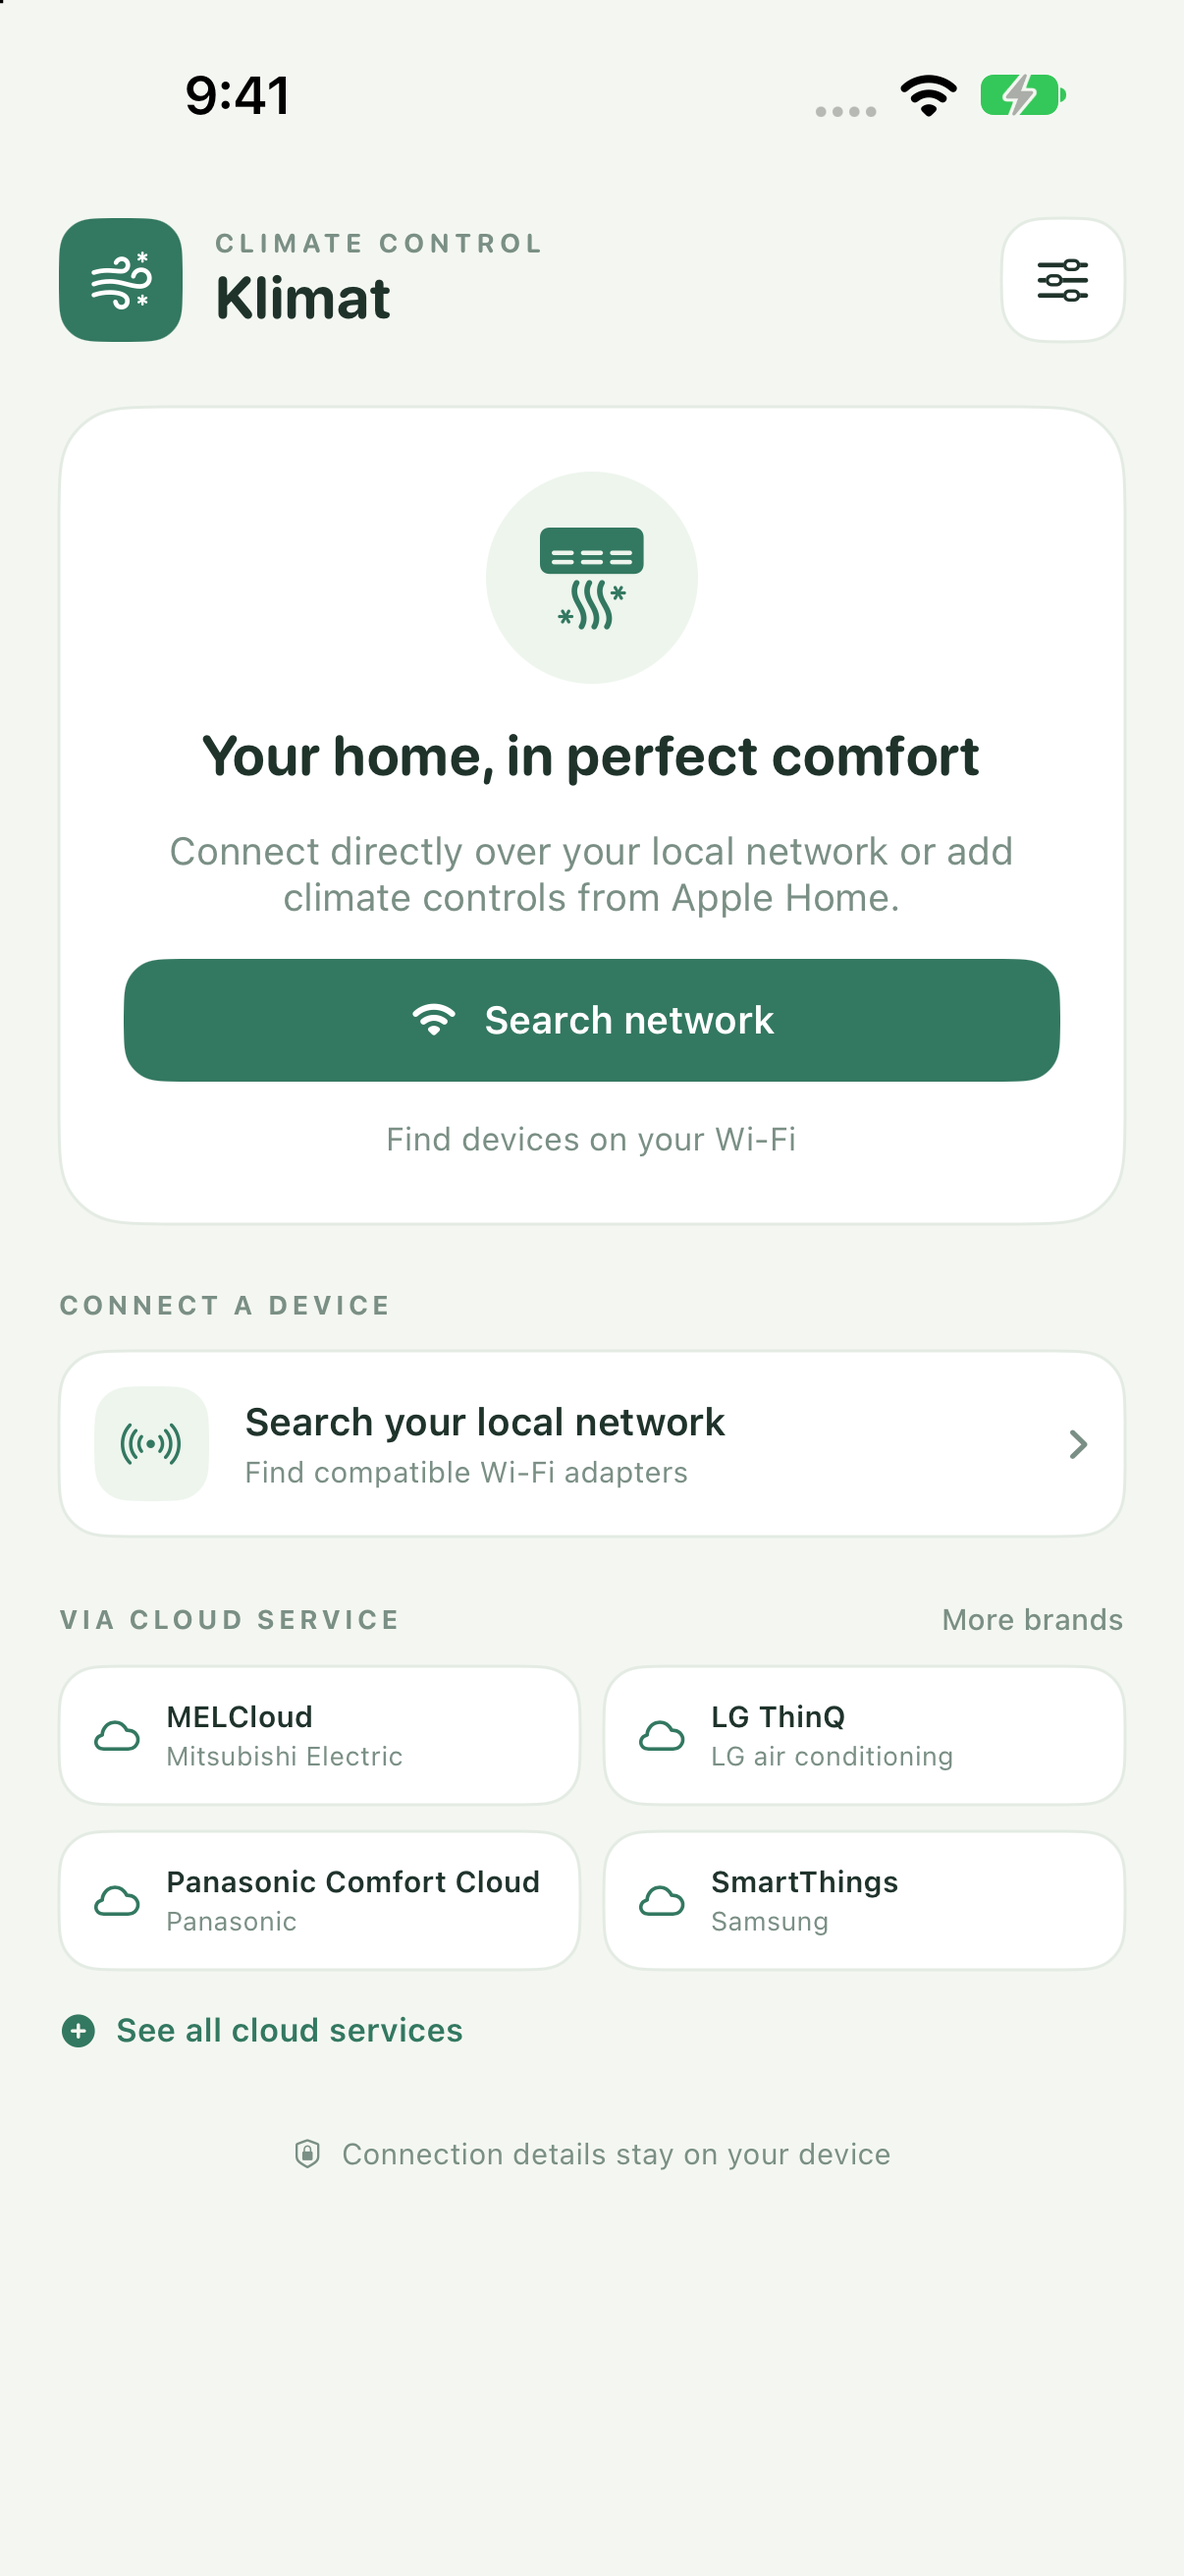
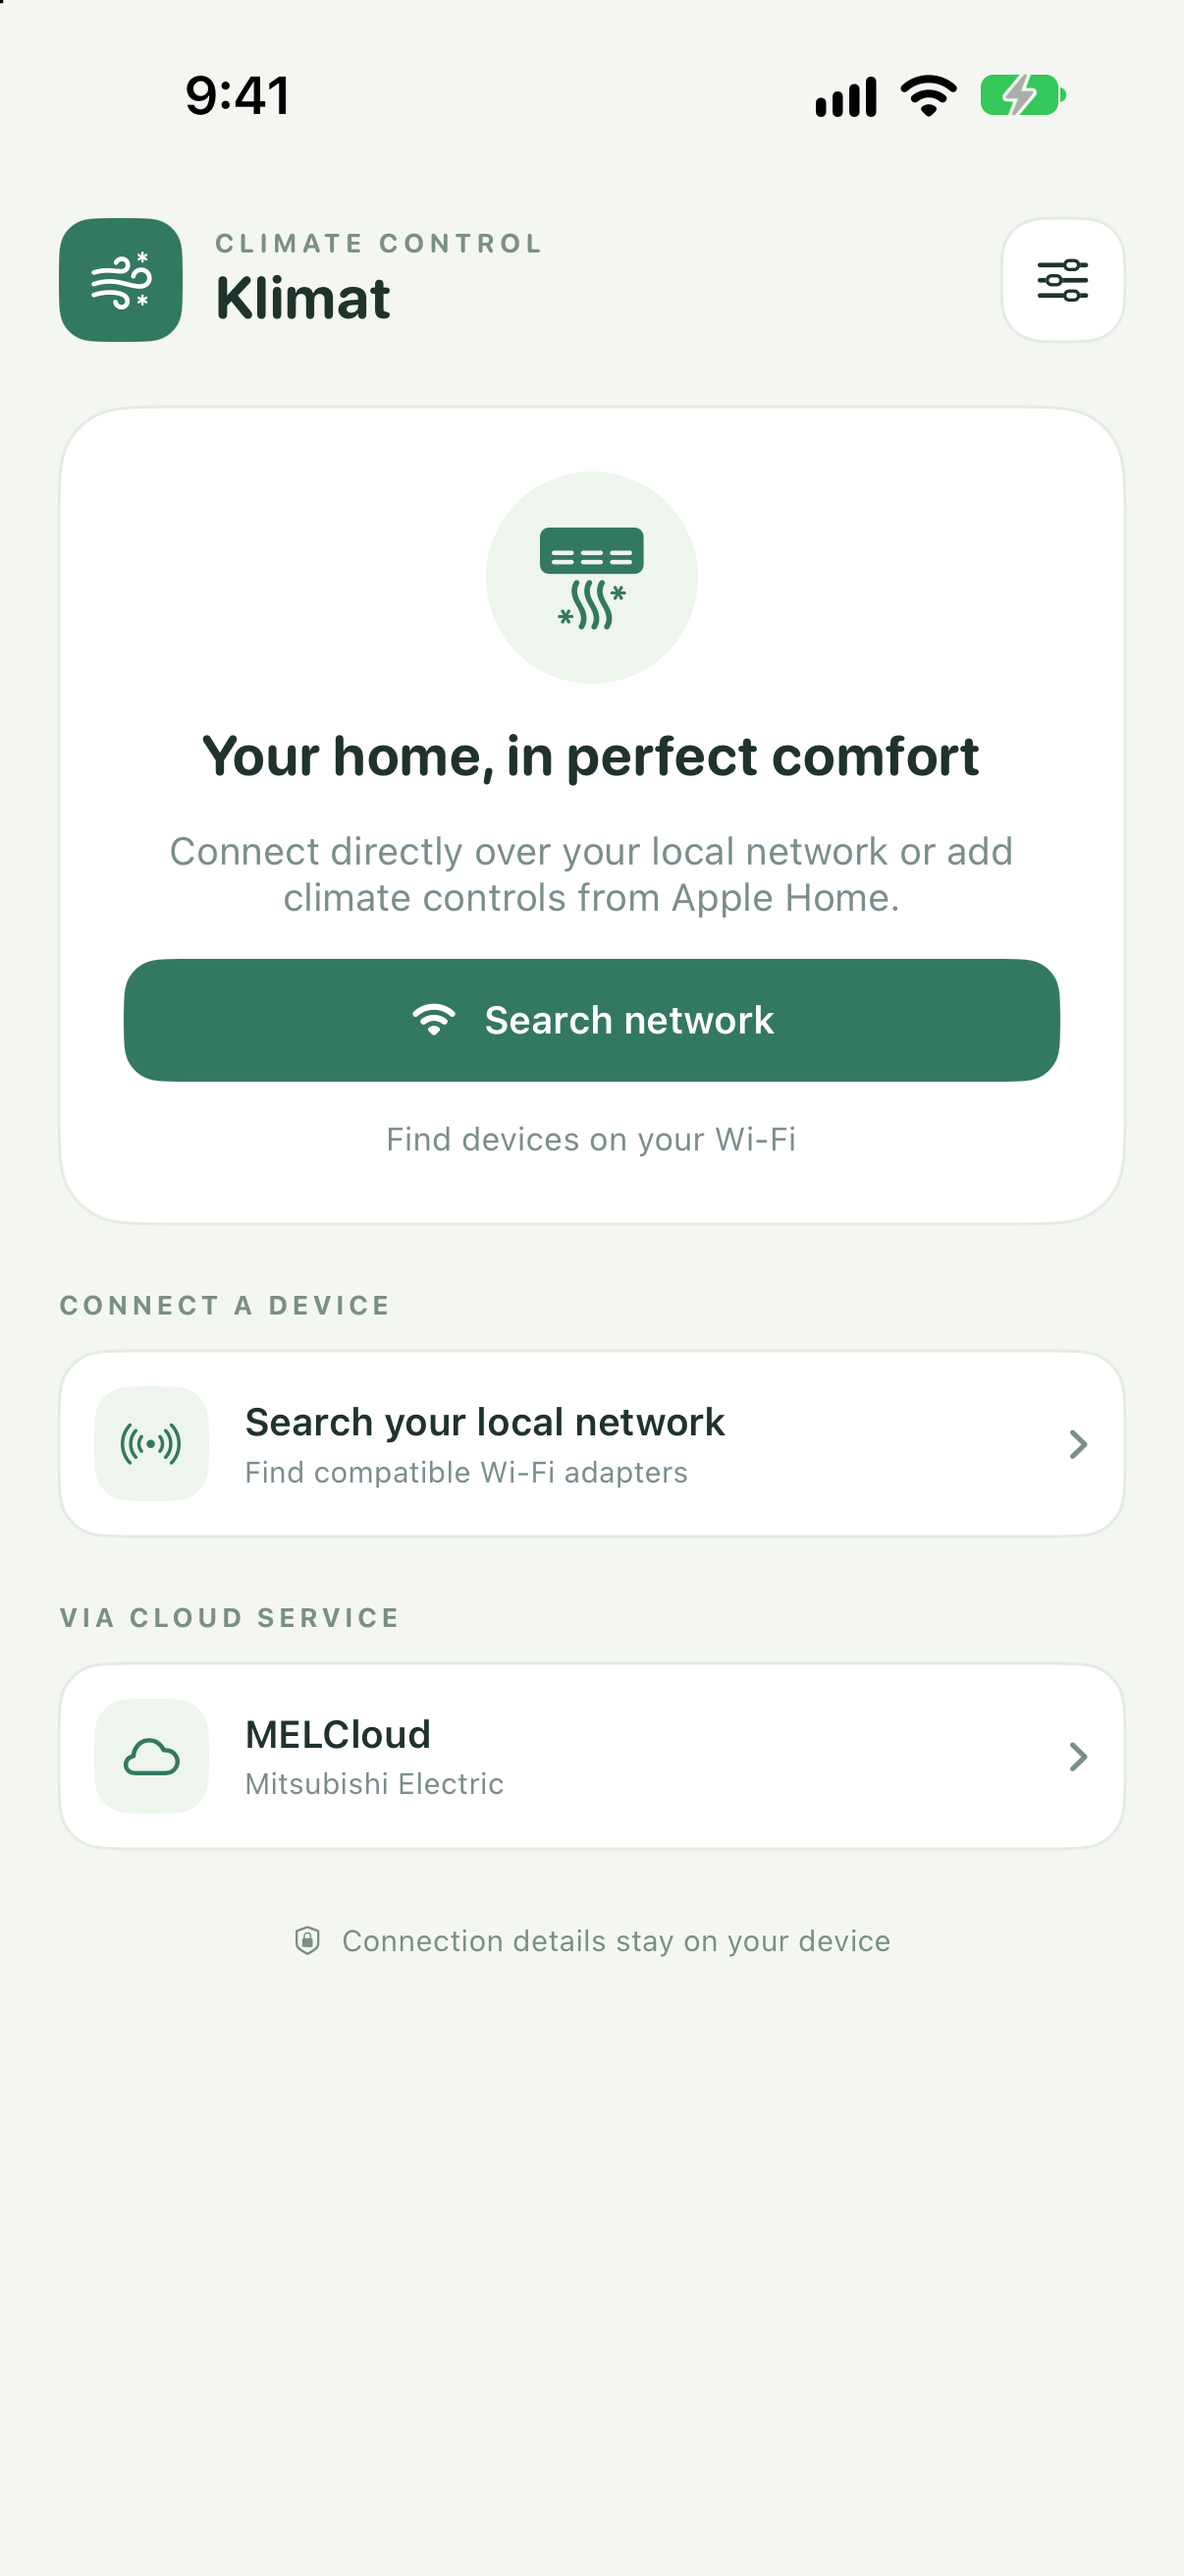
Clarify optional cloud control and refresh store screenshots

diff --git a/KlimatMobile/HomeView.swift b/KlimatMobile/HomeView.swift
@@ -216,16 +216,20 @@ struct HomeView: View {
 
     private var cloudSection: some View {
         VStack(alignment: .leading, spacing: 10) {
-            sectionTitle("VIA CLOUD SERVICE", trailing: "More brands")
-            LazyVGrid(columns: columns, spacing: 9) {
-                ForEach(store.providers.prefix(4)) { provider in
-                    Button { store.selectedProvider = provider; showCloud = true } label: {
-                        HStack(spacing: 8) { Image(systemName: provider.symbol).font(.system(size: 13, weight: .medium)).foregroundStyle(Palette.green); VStack(alignment: .leading, spacing: 2) { Text(provider.title).font(.system(size: 10, weight: .semibold)).foregroundStyle(Palette.ink).lineLimit(1); Text(provider.detail).font(.system(size: 9)).foregroundStyle(Palette.muted).lineLimit(1) } }
-                            .frame(maxWidth: .infinity, alignment: .leading).padding(11).background(Palette.card, in: RoundedRectangle(cornerRadius: 14)).overlay(RoundedRectangle(cornerRadius: 14).stroke(Palette.line, lineWidth: 1))
-                    }.buttonStyle(.plain)
-                }
+            sectionTitle("VIA CLOUD SERVICE")
+            if let provider = store.providers.first {
+                Button { store.selectedProvider = provider; showCloud = true } label: {
+                    HStack(spacing: 12) {
+                        Image(systemName: provider.symbol).font(.system(size: 16, weight: .medium)).foregroundStyle(Palette.green).frame(width: 39, height: 39).background(Palette.wash, in: RoundedRectangle(cornerRadius: 12))
+                        VStack(alignment: .leading, spacing: 3) {
+                            Text(provider.title).font(.system(size: 13, weight: .semibold)).foregroundStyle(Palette.ink)
+                            Text("Mitsubishi Electric").font(.system(size: 10)).foregroundStyle(Palette.muted)
+                        }
+                        Spacer()
+                        Image(systemName: "chevron.right").font(.system(size: 11, weight: .bold)).foregroundStyle(Palette.muted)
+                    }.padding(12).background(Palette.card, in: RoundedRectangle(cornerRadius: 16)).overlay(RoundedRectangle(cornerRadius: 16).stroke(Palette.line, lineWidth: 1))
+                }.buttonStyle(.plain)
             }
-            Button { showCloud = true } label: { HStack(spacing: 6) { Image(systemName: "plus.circle.fill"); Text("See all cloud services") }.font(.system(size: 11, weight: .semibold)).foregroundStyle(Palette.green).padding(.vertical, 4) }
         }
     }
 
@@ -252,28 +256,16 @@ struct HomeView: View {
     private var cloudSheet: some View {
         NavigationStack {
             List {
-                if let provider = store.selectedProvider {
-                    if provider.id == "melcloud" {
-                        Section("Connect MELCloud") {
-                            TextField("Email", text: $melCloudEmail).textInputAutocapitalization(.never).keyboardType(.emailAddress).autocorrectionDisabled()
-                            SecureField("Password", text: $melCloudPassword)
-                            Button {
-                                isConnectingMELCloud = true
-                                Task { await store.connectMELCloud(email: melCloudEmail, password: melCloudPassword); melCloudPassword = ""; isConnectingMELCloud = false }
-                            } label: { if isConnectingMELCloud { ProgressView() } else { Text("Connect account") } }.disabled(isConnectingMELCloud || melCloudEmail.isEmpty || melCloudPassword.isEmpty)
-                            if MELCloudClassicAdapter.storedSession() != nil || store.devices.contains(where: { $0.brand == "MELCloud" }) { Button("Disconnect MELCloud", role: .destructive) { store.disconnectMELCloud() } }
-                            Text("Your password is sent directly to Mitsubishi Electric's MELCloud service and is not saved by Klimat. The session key is stored in the iOS Keychain. Cloud control requires internet.").font(.caption).foregroundStyle(Palette.muted)
-                        }
-                    } else {
-                        Section { CloudConnectNotice(provider: provider) { store.connectCloud(provider: provider) } }
-                    }
+                Section("Connect MELCloud") {
+                    TextField("Email", text: $melCloudEmail).textInputAutocapitalization(.never).keyboardType(.emailAddress).autocorrectionDisabled()
+                    SecureField("Password", text: $melCloudPassword)
+                    Button {
+                        isConnectingMELCloud = true
+                        Task { await store.connectMELCloud(email: melCloudEmail, password: melCloudPassword); melCloudPassword = ""; isConnectingMELCloud = false }
+                    } label: { if isConnectingMELCloud { ProgressView() } else { Text("Connect account") } }.disabled(isConnectingMELCloud || melCloudEmail.isEmpty || melCloudPassword.isEmpty)
+                    if MELCloudClassicAdapter.storedSession() != nil || store.devices.contains(where: { $0.brand == "MELCloud" }) { Button("Disconnect MELCloud", role: .destructive) { store.disconnectMELCloud() } }
+                    Text("Your MELCloud password is sent directly to Mitsubishi Electric and is not stored by Klimat. Its session token stays in the iOS Keychain. Cloud control needs internet; direct local control does not use MELCloud.").font(.caption).foregroundStyle(Palette.muted)
                 }
-                Section("Choose a manufacturer") {
-                    ForEach(store.providers) { provider in
-                        Button { store.selectedProvider = provider } label: { HStack(spacing: 12) { Image(systemName: "cloud").foregroundStyle(Palette.green).frame(width: 28); VStack(alignment: .leading, spacing: 3) { Text(provider.title).foregroundStyle(Palette.ink); Text(provider.detail).font(.caption).foregroundStyle(Palette.muted) }; Spacer(); if store.selectedProvider?.id == provider.id { Image(systemName: "checkmark.circle.fill").foregroundStyle(Palette.green) } } }
-                    }
-                }
-                Section { Text("MELCloud Classic sign-in is available above. Other manufacturer cloud services are previews and cannot connect yet.").font(.caption).foregroundStyle(Palette.muted) }
             }.scrollContentBackground(.hidden).background(Palette.background).navigationTitle("Cloud service").navigationBarTitleDisplayMode(.inline).toolbar { ToolbarItem(placement: .topBarTrailing) { Button("Done") { showCloud = false }.foregroundStyle(Palette.green) } }
         }.presentationDetents([.medium, .large]).onDisappear { melCloudPassword = "" }
     }
@@ -345,18 +337,6 @@ struct HomeView: View {
             .navigationTitle("Settings").navigationBarTitleDisplayMode(.inline)
             .toolbar { ToolbarItem(placement: .topBarTrailing) { Button("Done") { showSettings = false }.foregroundStyle(Palette.green) } }
         }.presentationDetents([.large])
-    }
-}
-
-private struct CloudConnectNotice: View {
-    let provider: CloudProvider
-    let onConnect: () -> Void
-    var body: some View {
-        VStack(alignment: .leading, spacing: 12) {
-            Text(provider.title).font(.system(size: 18, weight: .bold, design: .rounded)).foregroundStyle(Palette.ink)
-            Text("Cloud control requires connecting Klimat to the manufacturer’s API. This feature is not enabled in this version.").font(.system(size: 12)).foregroundStyle(Palette.muted)
-            Button(action: onConnect) { Text("Check connection") }.buttonStyle(PrimaryButtonStyle())
-        }.padding(.vertical, 8)
     }
 }
 

diff --git a/KlimatMobile/ClimateStore.swift b/KlimatMobile/ClimateStore.swift
@@ -25,7 +25,6 @@ struct CloudProvider: Identifiable {
     let title: String
     let detail: String
     let symbol: String
-    let color: String
 }
 
 @MainActor final class ClimateStore: ObservableObject {
@@ -42,13 +41,7 @@ struct CloudProvider: Identifiable {
     private var appleHome: HomeKitClimateAdapter?
 
     let providers: [CloudProvider] = [
-        .init(id: "melcloud", title: "MELCloud", detail: "Mitsubishi Electric", symbol: "cloud", color: "#4A8069"),
-        .init(id: "lg", title: "LG ThinQ", detail: "LG air conditioning", symbol: "cloud", color: "#B44B68"),
-        .init(id: "panasonic", title: "Panasonic Comfort Cloud", detail: "Panasonic", symbol: "cloud", color: "#4269A2"),
-        .init(id: "smartthings", title: "SmartThings", detail: "Samsung", symbol: "cloud", color: "#3972C6"),
-        .init(id: "toshiba", title: "Toshiba Lifestyle", detail: "Toshiba", symbol: "cloud", color: "#B04D4D"),
-        .init(id: "gree", title: "Gree", detail: "Gree Cloud", symbol: "cloud", color: "#458A6A"),
-        .init(id: "midea", title: "Midea", detail: "Midea Air", symbol: "cloud", color: "#D27A42")
+        .init(id: "melcloud", title: "MELCloud", detail: "Mitsubishi Electric", symbol: "cloud")
     ]
 
     init() {
@@ -248,9 +241,6 @@ struct CloudProvider: Identifiable {
                 ? String(localized: "No compatible direct AC adapters found on this Wi-Fi network. You can enter an adapter IP address manually.")
                 : String(localized: "Found \(found.count) compatible AC adapter(s) on this Wi-Fi network.")
         }
-    }
-    func connectCloud(provider: CloudProvider) {
-        connectionNotice = String(localized: "\(provider.title) requires a manufacturer adapter. No sign-in was performed.")
     }
     private static func modeName(_ mode: Int) -> String { [0: "Auto", 8: "Auto", 1: "Heat", 2: "Dry", 3: "Cool", 7: "Fan"][mode] ?? "Auto" }
     private static func fanName(_ speed: Int) -> String { [0: "Auto", 1: "Low", 2: "Low", 3: "Medium", 4: "High", 5: "High"][speed] ?? "Auto" }
